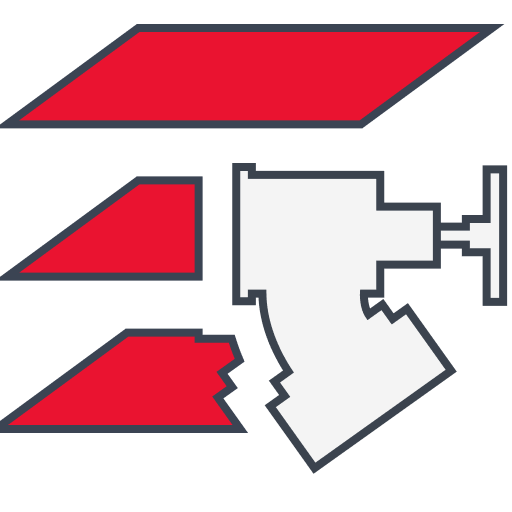
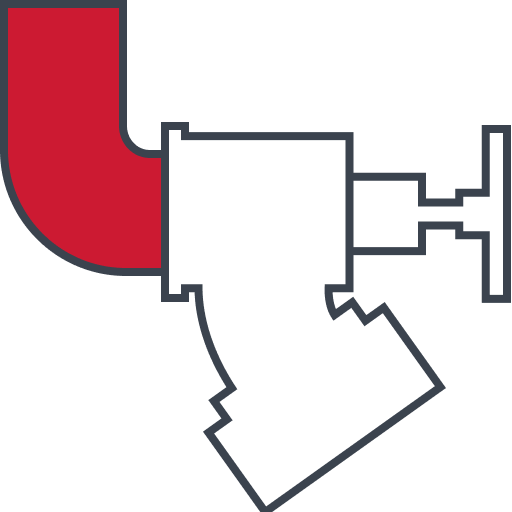
Renomeia botão "Inserir Hidrante por Nível" para "Inserir Hidrante" e troca o ícone
__title__ simplificado (sem quebra de linha); ícone substituído pelo
enviado pelo usuário.

Claude-Session: https://claude.ai/code/session_01LcLGgeM3aru4x5TnwLA9fB

diff --git a/Fire Utils.tab/Tubos.panel/Inserir Hidrante por Nivel.pushbutton/script.py b/Fire Utils.tab/Tubos.panel/Inserir Hidrante por Nivel.pushbutton/script.py
@@ -1,5 +1,5 @@
 # -*- coding: utf-8 -*-
-__title__ = "Inserir Hidrante\npor Nível"
+__title__ = "Inserir Hidrante"
 __doc__ = (
     "Cria uma coluna de hidrantes atravessando vários níveis de uma vez: "
     "escolha os níveis (e se quer abrigo de mangueira em cada um) num "
